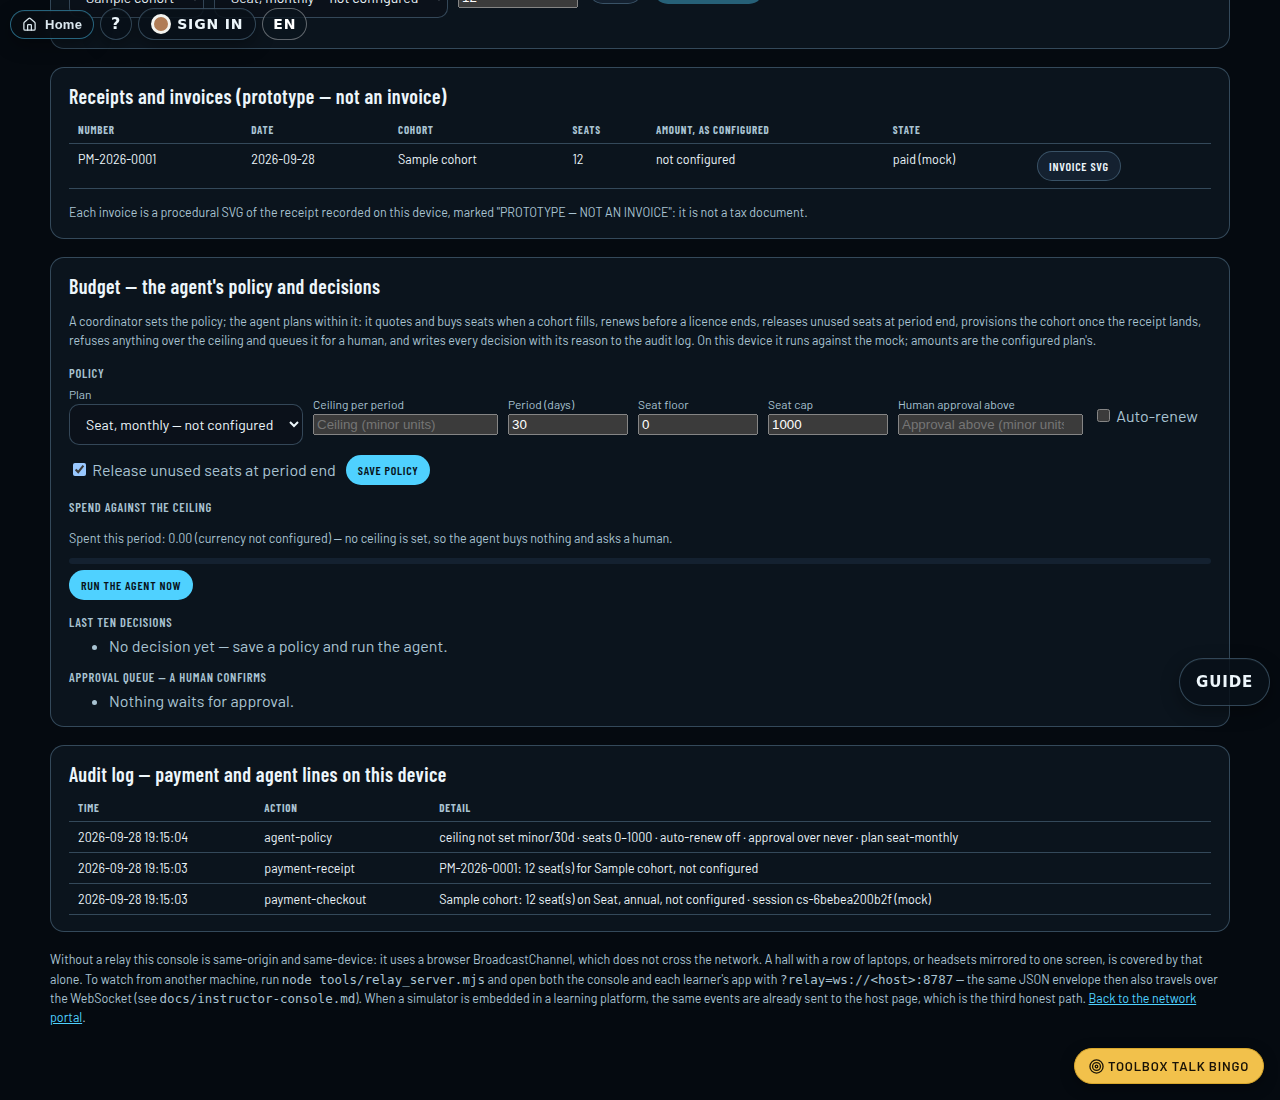
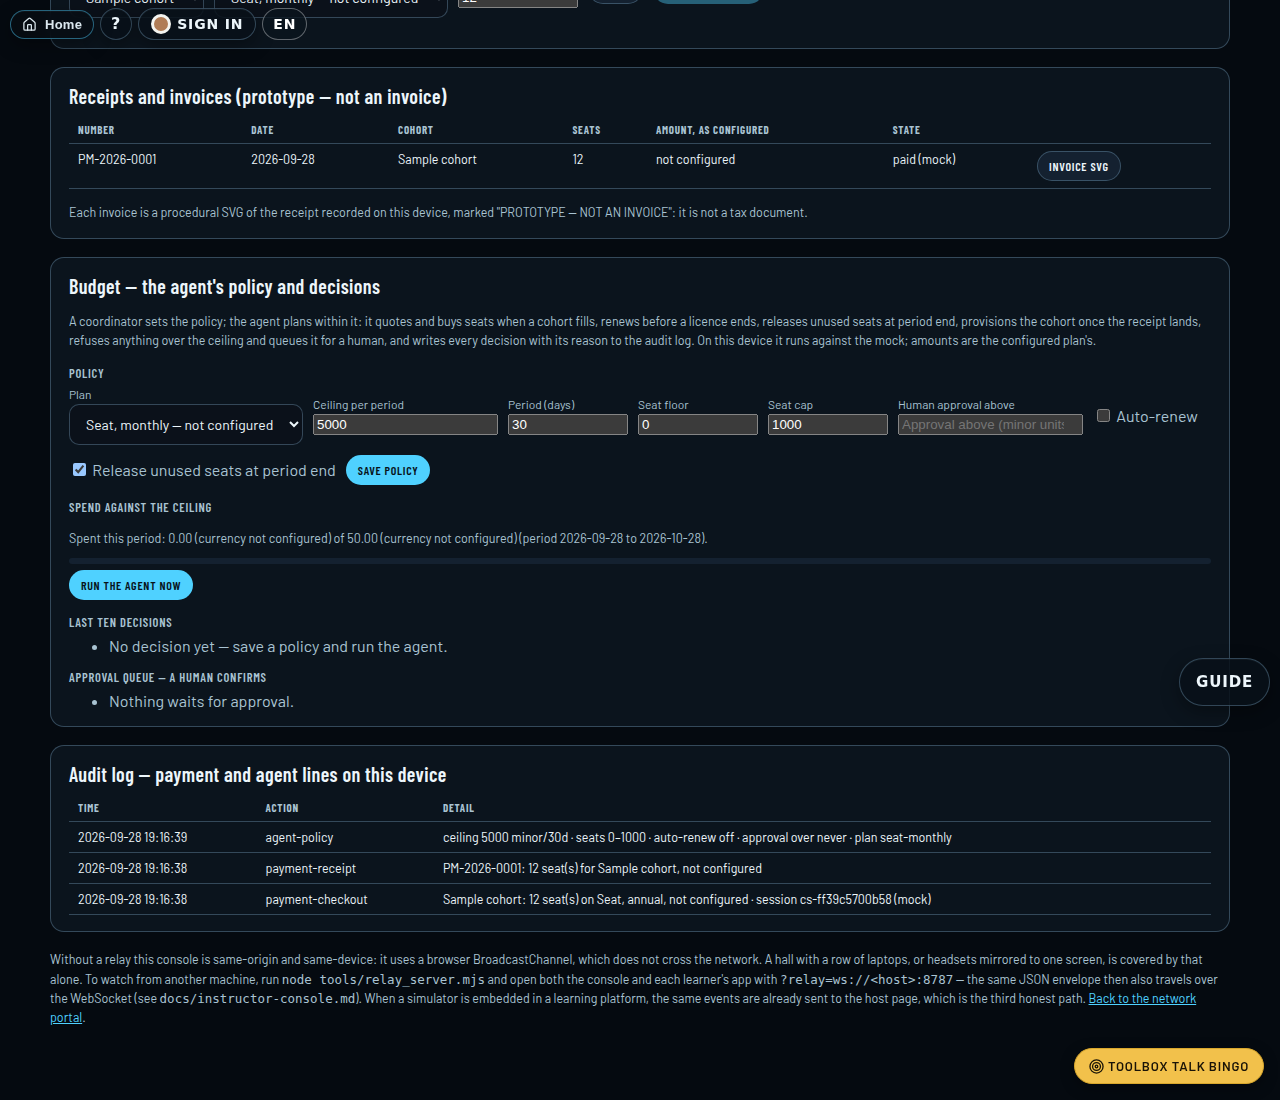
TILL: the Billing tab keeps a half-typed policy across the re-render the account chip triggers once its config arrives (the capture had lost the ceiling before Save)
Claude-Session: https://claude.ai/code/session_015ZZX8oPoF3cQNKzUtpVYAb

diff --git a/WebXR/instructor/js/billing.js b/WebXR/instructor/js/billing.js
@@ -21,7 +21,7 @@ import { PP_PROGRAMMES } from "../../shared/passport-programmes.js";
 import { enEnabledProgrammes } from "./cohort.js";
 
 const pmEl = (tag, cls, text) => { const n = document.createElement(tag); if (cls) n.className = cls; if (text !== undefined) n.textContent = text; return n; };
-const pmState = { root: null, enterprise: null, payments: null, adapter: null, toast: null, quote: null, busy: false };
+const pmState = { root: null, enterprise: null, payments: null, adapter: null, toast: null, quote: null, busy: false, draft: null, readDraft: null };
 
 function pmSay(text) { try { pmState.toast?.(text); } catch (_) { /* no toast */ } }
 
@@ -189,7 +189,9 @@ function pmBudgetPanel() {
   const panel = pmEl("section", "panel"); panel.id = "pm-budget";
   panel.append(pmEl("h2", null, "Budget — the agent's policy and decisions"));
   panel.append(pmEl("p", "fine", "A coordinator sets the policy; the agent plans within it: it quotes and buys seats when a cohort fills, renews before a licence ends, releases unused seats at period end, provisions the cohort once the receipt lands, refuses anything over the ceiling and queues it for a human, and writes every decision with its reason to the audit log. On this device it runs against the mock; amounts are the configured plan's."));
-  const { policy, state } = pmAgentLoad();
+  const { policy: stored, state } = pmAgentLoad();
+  // A half-typed policy survives a re-render (the account chip re-renders the tab once its config arrives).
+  const policy = pmState.draft ? { ...stored, ...pmState.draft } : stored;
   const cfg = pmEffectiveConfig();
   const plans = pmState.adapter.describe().plans;
   // Policy form. Amounts are typed in the currency's minor unit, as the block stores them.
@@ -205,8 +207,11 @@ function pmBudgetPanel() {
   const releaseLabel = pmEl("label", "muted"); releaseLabel.setAttribute("for", "pm-release"); releaseLabel.append(release, " Release unused seats at period end");
   const form = pmEl("div", "row"); form.id = "pm-policy";
   form.append(pmField("Plan", plan), pmField("Ceiling per period", ceiling), pmField("Period (days)", period), pmField("Seat floor", floor), pmField("Seat cap", cap), pmField("Human approval above", threshold), renewLabel, releaseLabel);
+  const readForm = () => ({ planId: plan.value || null, ceilingMinor: ceiling.value === "" ? null : Number(ceiling.value), periodDays: Number(period.value), seatFloor: Number(floor.value), seatCap: Number(cap.value), autoRenew: renew.checked, releaseUnused: release.checked, approvalThresholdMinor: threshold.value === "" ? null : Number(threshold.value) });
+  pmState.readDraft = readForm;
   form.append(pmButton("Save policy", () => {
-    const p = pmAgentSetPolicy({ planId: plan.value || null, ceilingMinor: ceiling.value === "" ? null : Number(ceiling.value), periodDays: Number(period.value), seatFloor: Number(floor.value), seatCap: Number(cap.value), autoRenew: renew.checked, releaseUnused: release.checked, approvalThresholdMinor: threshold.value === "" ? null : Number(threshold.value) });
+    pmState.draft = null;
+    const p = pmAgentSetPolicy(readForm());
     pmSay(`Policy saved: ceiling ${p.ceilingMinor == null ? "not set" : pmMoney(p.ceilingMinor, cfg)} per ${p.periodDays} days.`); pmRender();
   }, "primary small"));
   panel.append(pmEl("h3", null, "Policy"), form);
@@ -259,6 +264,8 @@ function pmAuditPanel() {
 export function pmRender(root = pmState.root) {
   if (!root) return null;
   if (!pmState.adapter) pmState.adapter = pmCreateAdapter(pmEffectiveConfig());
+  // Keep what a coordinator has typed into the policy form across this rebuild.
+  if (typeof pmState.readDraft === "function") { try { pmState.draft = pmState.readDraft(); } catch (_) { pmState.draft = null; } }
   root.replaceChildren();
   root.append(pmProviderPanel(), pmSeatPanel(), pmInvoicePanel(), pmBudgetPanel(), pmAuditPanel());
   return root;

diff --git a/WebXR/instructor/dist/instructor-console.html b/WebXR/instructor/dist/instructor-console.html
@@ -17464,7 +17464,7 @@ function pmAgentAdapter(config = {}) {
 
 
 const pmEl = (tag, cls, text) => { const n = document.createElement(tag); if (cls) n.className = cls; if (text !== undefined) n.textContent = text; return n; };
-const pmState = { root: null, enterprise: null, payments: null, adapter: null, toast: null, quote: null, busy: false };
+const pmState = { root: null, enterprise: null, payments: null, adapter: null, toast: null, quote: null, busy: false, draft: null, readDraft: null };
 
 function pmSay(text) { try { pmState.toast?.(text); } catch (_) { /* no toast */ } }
 
@@ -17632,7 +17632,9 @@ function pmBudgetPanel() {
   const panel = pmEl("section", "panel"); panel.id = "pm-budget";
   panel.append(pmEl("h2", null, "Budget — the agent's policy and decisions"));
   panel.append(pmEl("p", "fine", "A coordinator sets the policy; the agent plans within it: it quotes and buys seats when a cohort fills, renews before a licence ends, releases unused seats at period end, provisions the cohort once the receipt lands, refuses anything over the ceiling and queues it for a human, and writes every decision with its reason to the audit log. On this device it runs against the mock; amounts are the configured plan's."));
-  const { policy, state } = pmAgentLoad();
+  const { policy: stored, state } = pmAgentLoad();
+  // A half-typed policy survives a re-render (the account chip re-renders the tab once its config arrives).
+  const policy = pmState.draft ? { ...stored, ...pmState.draft } : stored;
   const cfg = pmEffectiveConfig();
   const plans = pmState.adapter.describe().plans;
   // Policy form. Amounts are typed in the currency's minor unit, as the block stores them.
@@ -17648,8 +17650,11 @@ function pmBudgetPanel() {
   const releaseLabel = pmEl("label", "muted"); releaseLabel.setAttribute("for", "pm-release"); releaseLabel.append(release, " Release unused seats at period end");
   const form = pmEl("div", "row"); form.id = "pm-policy";
   form.append(pmField("Plan", plan), pmField("Ceiling per period", ceiling), pmField("Period (days)", period), pmField("Seat floor", floor), pmField("Seat cap", cap), pmField("Human approval above", threshold), renewLabel, releaseLabel);
+  const readForm = () => ({ planId: plan.value || null, ceilingMinor: ceiling.value === "" ? null : Number(ceiling.value), periodDays: Number(period.value), seatFloor: Number(floor.value), seatCap: Number(cap.value), autoRenew: renew.checked, releaseUnused: release.checked, approvalThresholdMinor: threshold.value === "" ? null : Number(threshold.value) });
+  pmState.readDraft = readForm;
   form.append(pmButton("Save policy", () => {
-    const p = pmAgentSetPolicy({ planId: plan.value || null, ceilingMinor: ceiling.value === "" ? null : Number(ceiling.value), periodDays: Number(period.value), seatFloor: Number(floor.value), seatCap: Number(cap.value), autoRenew: renew.checked, releaseUnused: release.checked, approvalThresholdMinor: threshold.value === "" ? null : Number(threshold.value) });
+    pmState.draft = null;
+    const p = pmAgentSetPolicy(readForm());
     pmSay(`Policy saved: ceiling ${p.ceilingMinor == null ? "not set" : pmMoney(p.ceilingMinor, cfg)} per ${p.periodDays} days.`); pmRender();
   }, "primary small"));
   panel.append(pmEl("h3", null, "Policy"), form);
@@ -17702,6 +17707,8 @@ function pmAuditPanel() {
 function pmRender(root = pmState.root) {
   if (!root) return null;
   if (!pmState.adapter) pmState.adapter = pmCreateAdapter(pmEffectiveConfig());
+  // Keep what a coordinator has typed into the policy form across this rebuild.
+  if (typeof pmState.readDraft === "function") { try { pmState.draft = pmState.readDraft(); } catch (_) { pmState.draft = null; } }
   root.replaceChildren();
   root.append(pmProviderPanel(), pmSeatPanel(), pmInvoicePanel(), pmBudgetPanel(), pmAuditPanel());
   return root;
